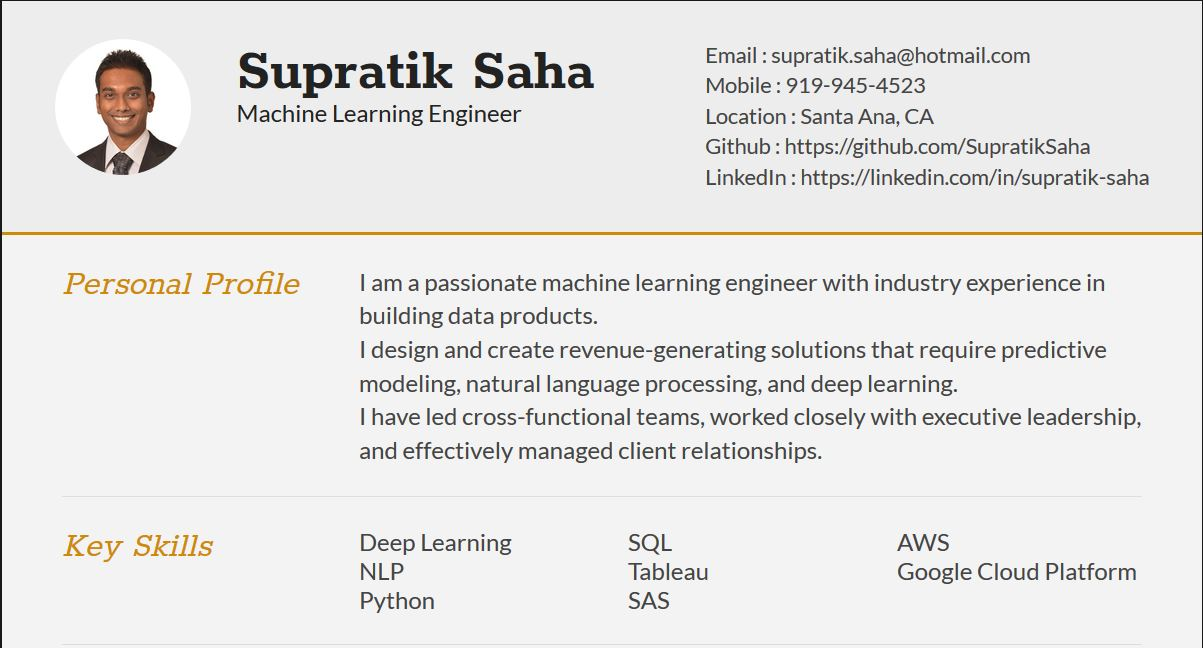
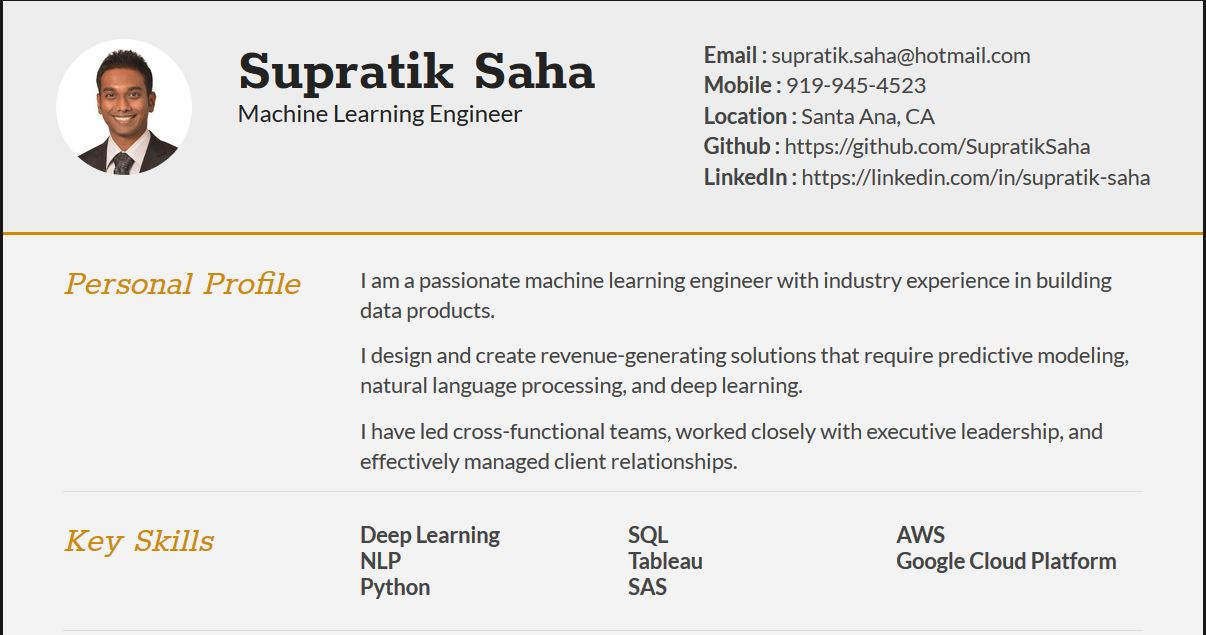
feat: modify webpage css

diff --git a/index.html b/index.html
@@ -49,10 +49,9 @@
 				</div>
 				
 				<div class="sectionContent">
-					<p>I am a passionate machine learning engineer with industry experience in building data products.</br>
-					   I design and create revenue-generating solutions that require predictive modeling, natural language processing, and deep learning.</br>
-					   I have led cross-functional teams, worked closely with executive leadership, and effectively managed client relationships. </br>
-					</p>
+					<p class="summary">I am a passionate machine learning engineer with industry experience in building data products.</p>
+					<p class="summary">I design and create revenue-generating solutions that require predictive modeling, natural language processing, and deep learning.</p>
+					<p class="summary">I have led cross-functional teams, worked closely with executive leadership, and effectively managed client relationships.</p>
 				</div>
 			</article>
 			<div class="clear"></div>
@@ -88,9 +87,9 @@
 			<div class="sectionContent">
 				<article>
 					<h2>SAP - Sr. Data Scientist/Machine Learning Engineer</h2>
-					<p class="subDetails">Greater LA Area, CA &emsp; January 2020 - Present</p>
+					<p class="subDetails">Greater LA Area, CA &emsp; <b>| &emsp;</b> Jan 2020 - Present</p>
 					<p>
-					  <ul>
+					  <ul class="bullets">
 						<li>Recommending trade promotions for 3 pilot retailers as a part of a flagship SAP product</li>
 					    <li>Leading a team of 4 Machine Learning Engineers at Eureka – a cloud solutions startup in SAP</li>
 					  </ul>
@@ -98,11 +97,11 @@
 				</article>
 				
 				<article>
-					<h2>Cox Auto (Kelley Blue Book) - Sr. Data Scientist</h2>
-					<p class="subDetails">Greater LA Area, CA  &emsp; January 2017 - January 2020</p>
+					<h2 class="notFirstH2">Cox Auto (Kelley Blue Book) - Sr. Data Scientist</h2>
+					<p class="subDetails">Greater LA Area, CA  &emsp; <b>| &emsp;</b> Jan 2017 - Jan 2020</p>
 					<p>
-					  <ul>
-						<li>Forecasted used car price for 10,000 vehicles using an ensemble of Deep learning and LightGBM</li>
+					  <ul class="bullets">
+						<li>Forecasted used car price of 10,000 vehicles with an ensemble of Deep learning & LightGBM</li>
 					    <li>Promoted to the lead position of residual forecasting team</li>
 						<li>Developed machine learning products for auto OEMs earning $500,000 in revenue</li>
 						<li>Conceptualized interactive dashboards using Tableau as front end of ML products for clients</li>
@@ -111,22 +110,22 @@
 				</article>
 				
 				<article>
-					<h2>Deloitte Consulting - Sr. Consultant - Analytics</h2>
-					<p class="subDetails">Greater New York City, NY; Atlanta, GA   &emsp; July 2016 — January 2017</p>
+					<h2 class="notFirstH2">Deloitte Consulting - Sr. Consultant - Analytics</h2>
+					<p class="subDetails">Greater New York City, NY; &nbsp; Atlanta, GA   &emsp; <b>| &emsp;</b> Jul 2016 — Jan 2017</p>
 					<p>
-					  <ul>
+					  <ul class="bullets">
 						<li>Designed a 3 year strategy roadmap to build the analytics org of a medical devices client</li>
-					    <li>Recommended 6 high impact analytics projects after evaluating data from client’s organization</li>
+					    <li>Recommended 6 high impact analytics projects after evaluating client's data</li>
 					    <li>Performed Price Volume Mix Analysis for a consumer products client using Tableau and R</li>
 					  </ul>
 				    </p>
 				</article>
 
 				<article>
-					<h2>UNC - Tech Lead – Data Science (Grad Practicum)</h2>
-					<p class="subDetails">Research Triangle Park, NC &nbsp; September 2015 - May 2016</p>
+					<h2 class="notFirstH2">UNC - Tech Lead – Data Science (Grad Practicum)</h2>
+					<p class="subDetails">Research Triangle Park, NC &emsp; <b>| &emsp;</b> Sep 2015 - May 2016</p>
 					<p>
-					  <ul>
+					  <ul class="bullets">
 						<li>Mined text data from 7 years of patient surveys to predict safety incidents</li>
 					    <li>Devised an app using R Shiny to enable automatic incident flagging</li>
 						<li>Spearheaded a team of 5 data scientists as the technical leader</li>
@@ -136,21 +135,21 @@
 				</article>
 
 				<article>
-					<h2>JCB - Manager – Corporate Strategy</h2>
-					<p class="subDetails">Greater New Delhi Area, India  &nbsp; June 2012 - June 2015</p>
+					<h2 class="notFirstH2">JCB - Manager – Corporate Strategy</h2>
+					<p class="subDetails">Greater New Delhi Area, India &emsp; <b>| &emsp;</b> Jun 2012 - Jun 2015</p>
 					<p>
-					  <ul>
-						<li>Expedited new business initiation decisions by building financial viability models for 3 projects</li>
+					  <ul class="bullets">
+						<li>Expedited new business initiation by building financial viability models for 3 projects</li>
 					    <li>Predicted payments and collections every 7 days to forecast cash requirement</li>
 					  </ul>
 				    </p>
 				</article>
 
 				<article>
-					<h2>Tata Consultancy - Tech Lead – Web Development</h2>
-					<p class="subDetails">Calcutta, India &nbsp; January 2008 - October 2010</p>
+					<h2 class="notFirstH2">Tata Consultancy - Tech Lead – Web Development</h2>
+					<p class="subDetails">Calcutta, India &emsp; <b>| &emsp;</b> Jan 2008 - Oct 2010</p>
 					<p>
-					  <ul>
+					  <ul class="bullets">
 						<li>Built 7 websites for J&J companies using open source technologies like PHP and MySQL</li>
 					    <li>Led a team of 8 that earned customer recognition and secured $400,000 in revenue</li>
 					  </ul>
@@ -169,17 +168,17 @@
 			<div class="sectionContent">
 				<article>
 					<h2>North Carolina State University</h2>
-					<p class="subDetails">Master of Science in Analytics &emsp; June 2015 - May 2016</p>
+					<p class="subDetails">Master of Science in Analytics &emsp; <b>| &emsp;</b> Jun 2015 - May 2016</p>
 				</article>
 				
 				<article>
-					<h2>Indian Institute of Management Raipur</h2>
-					<p class="subDetails">Master of Business Administration - MBA - Strategy & Finance &emsp; October 2010 — May 2012</p>
+					<h2 class="notFirstH2">Indian Institute of Management Raipur</h2>
+					<p class="subDetails">Master of Business Administration - MBA - Strategy & Finance &emsp; <b>| &emsp;</b> Oct 2010 — May 2012</p>
 				</article>
 
 				<article>
-					<h2>West Bengal University of Technology</h2>
-					<p class="subDetails">Bachelor of Technology (B.Tech.) - Computer Science and Engineering &nbsp; August 2003 — August 2007</p>
+					<h2 class="notFirstH2">West Bengal University of Technology</h2>
+					<p class="subDetails">Bachelor of Technology (B.Tech.) - Computer Science and Engineering &emsp; <b>| &emsp;</b> Aug 2003 — Aug 2007</p>
 				</article>
 			</div>
 			<div class="clear"></div>

diff --git a/style.css b/style.css
@@ -18,7 +18,7 @@ html, body {background: #181818; font-family: 'Lato', helvetica, arial, sans-ser
 p {
 	font-size: 1em;
 	line-height: 1.4em;
-	margin-bottom: 20px;
+	margin-bottom: 10px;
 	color: #444;
 }
 
@@ -84,6 +84,10 @@ p {
 	color: #444;
 }
 
+#contactDetails ul li b{
+	font-weight: bold;
+}
+
 #contactDetails ul li a, a[href^=tel] {
 	color: #444; 
 	text-decoration: none;
@@ -122,6 +126,10 @@ section:last-child {
 	width: 72.5%;
 }
 
+.summary {
+	font-size: 0.9em;
+}
+
 .sectionTitle h1 {
 	font-family: 'Rokkitt', Helvetica, Arial, sans-serif;
 	font-style: italic;
@@ -131,8 +139,13 @@ section:last-child {
 
 .sectionContent h2 {
 	font-family: 'Rokkitt', Helvetica, Arial, sans-serif;
-	font-size: 1.5em;
+	font-weight: bold;
+	font-size: 1.3em;
 	margin-bottom: -2px;
+}
+
+.notFirstH2 {
+	margin-top: 20px;
 }
 
 .subDetails {
@@ -147,12 +160,17 @@ section:last-child {
 	-webkit-column-count:3;
 	column-count:3;
 	margin-bottom: 20px;
-	font-size: 1em;
+	font-size: 0.90em;
+	font-weight: bold;
 	color: #444;
 }
 
 .keySkills ul li {
 	margin-bottom: 3px;
+}
+
+.bullets {
+	font-size: 0.90em;
 }
 
 @media all and (min-width: 602px) and (max-width: 800px) {
